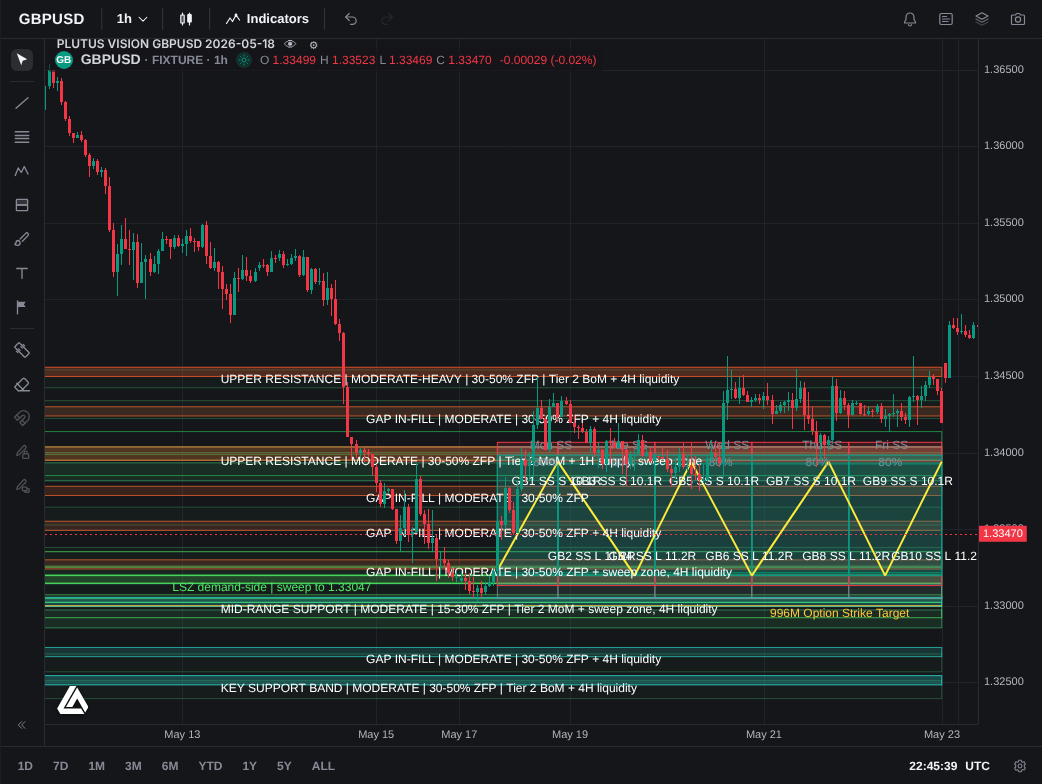
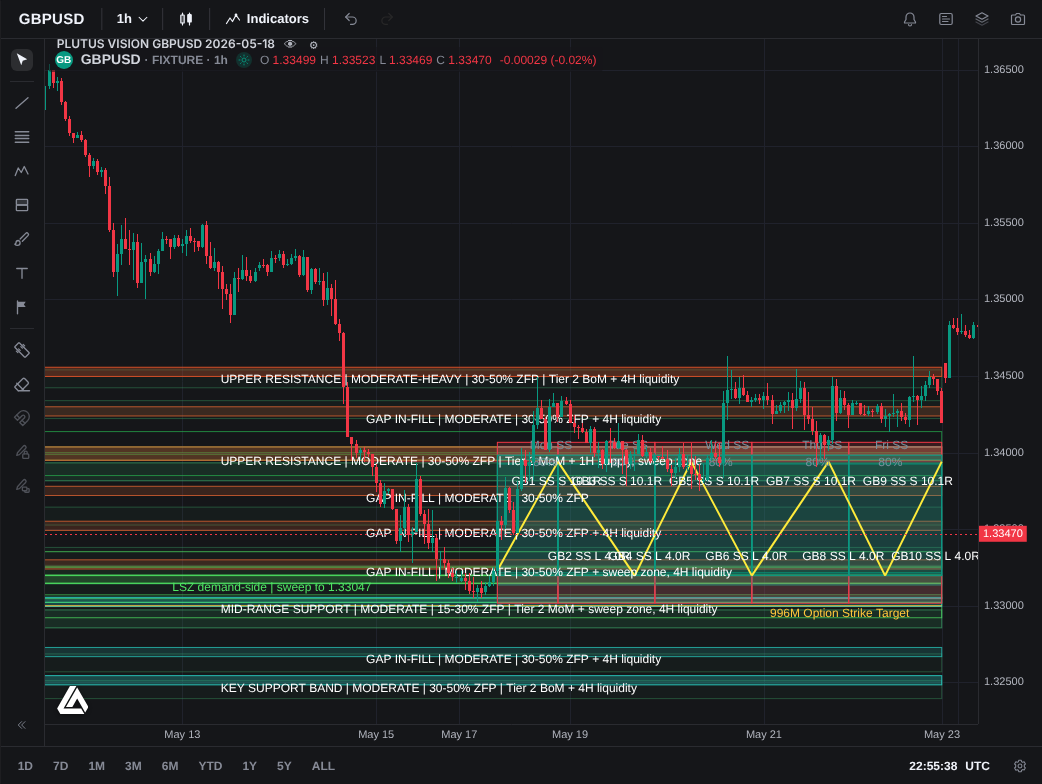
E3: a depleted range bound (3 reactions) is TP only - the swing starts at the liquidity beyond it (D-85; P533:1159, E3C:1052, 6.4.2); final two frames of the s3e render
Claude-Session: https://claude.ai/code/session_01Eis2qBbofvMAifYJzweUMT

Changed region(s): [[0.4607, 0.7041, 0.9213, 0.7959], [0.9213, 0.7041, 0.952, 0.7347]]

diff --git a/e1_tool/e3_trades.py b/e1_tool/e3_trades.py
@@ -200,6 +200,7 @@ def _steps(X):
 
 ZR6B = True
 SWEEP_EXT = True
+DEPLETED_BOUND = True
 
 
 def _mirror_conf(c, a, direction, E2):
@@ -351,7 +352,16 @@ def _cands(E2, monday, X):
                     # 6.4.2: the slow consolidation ends retesting the opposing liquidity FROM the pivot: on the transition day the swing in the breakout direction ends at the pivot (its far side)
                     out.append({'shape': 'SS', 'dir': d, 'from_zone': dict(a), 'to_zone': E2['pivot'], 'from': a['bot'] if d == 'down' else a['top'], 'days': [DAYS[S[tr['s0']]['i']]],
                                 'to': E2['pivot']['bot'] if d == 'down' else E2['pivot']['top'], 't0': S[tr['s0']]['t0'] - 86400000, 't1': S[tr['s0']]['t1'], 'role': 'last-swing'})
-                for anc in sorted(inner, key=lambda q: -q['top'] if d == 'down' else q['bot']) + [a]:      # GS Law 3: the LTF zone first, the HTF bound after (Phase 6.3 keeps the first)
+                bound = [a]
+                if DEPLETED_BOUND and (E2M.info(a) or {}).get('counter') == 'Depleted':
+                    # P533:1159 '3+ reactions (Depleted): Zone is likely to fail on next test. Use for TP targeting only - NOT for entries ... price will likely pierce through it';
+                    # E3C:1052 ZONE_DEPLETED 'reactionCount >= 3 (TP-only)'; 6.4.2 'pierce through zone until reaching BoM Liquidity': the swing from this side starts at the liquidity
+                    # beyond the depleted bound, and no structure standing on the depleted zone is an entry (D-85)
+                    lb = E2M.liquidity_beyond(X, a, d == 'down')
+                    inner = [q for q in inner if not _overlap(q, a)]
+                    bound = [lb] if lb is not None else []
+                    log.append(f"SS {d}: ZONE_DEPLETED - {a.get('name', '')} has 3+ reactions (TP only, P533:1159) -> " + (f"entry at {lb['name']} beyond it (6.4.2)" if lb is not None else 'no liquidity beyond it: no entry on this side'))
+                for anc in sorted(inner, key=lambda q: -q['top'] if d == 'down' else q['bot']) + bound:      # GS Law 3: the LTF zone first, the HTF bound after (Phase 6.3 keeps the first)
                     out.append({'shape': 'SS', 'dir': d, 'from_zone': dict(anc, name=anc.get('name', anc.get('label'))), 'to_zone': t, 'from': anc['bot'] if d == 'down' else anc['top'],
                                 'to': t['top'] if d == 'down' else t['bot'], 'days': dn, 't0': max(S[st['s0']]['t0'], D.boundary_ms(monday)), 't1': S[st['s1'] - 1]['t1'], 'role': st.get('role')})
         elif st['shape'] in ('WL', 'PWL'):

diff --git a/memory/03_DECISION_CHAIN.md b/memory/03_DECISION_CHAIN.md
@@ -86,3 +86,4 @@
 | D-82 | 2026-11-26 | E3: every take-profit ORDER stands 1.5 pips in front of its target level (a level that already carries the 1-pip spread gets the rest); the level stays the Law-27 link and the rocket gate's reference | Fibonacci Spiderwebs (operator): 'Make sure there is a 1.5-2 pip buffer in front of the TP or you will miss it. MANDATORY ... If you skip this you will miss 60% of TPs and lose 50% of earned profits'; E3C:324 'add a 1-2 pip spread so you dont miss the exit'. Golden TPs stay within 2.2 pips of his (DXY all six; EURUSD #2 #4 #5 #6; GBPUSD #1 #2 #3 #5) | exact level / +1 pip on strong zones only |
 | D-83 | 2026-11-26 | E3 first rocket of a breakout that follows a retest: it must stand in the 0.786-1.0 band of the retest leg's Fib grid (0 = the retest extreme, 1 = the swing before it); a 20-pip step already in the band stays with its ladder stop, otherwise the band's first step on the way is the rocket and its stop is the grid's 0.618 level | Fibonacci Spiderwebs + his grids in golden_week.json (EURUSD #7 1.14233 = 0.786, SL 1.14183 ~ 0.618; GBPUSD #4 SL 1.33522 = 0.618; DXY rocket 100.975 = 1.0, SL 101.09 = 0.618); E3C:225 '0.786-1.0 FINAL BLAST'; GS Law 5. EURUSD golden rocket now 1.14239 / 1.14172 / 1.14540 vs his 1.14233 / 1.14183 / 1.14544 (was 6.9 pips off) | first liquidity step 20+ pips beyond the primary (D-54) only |
 | D-84 | 2026-11-26 | E3: a setup anchored on a sweep zone that carries its extension (the range bounds of D-64 / D-79, 'reach' = extreme +- 0.10) has ONE stop rule - 3 pips outside the extended range; shields inside the reach are not a next step; third entry attempt = the exact swing extreme. The locator's zone-failure test uses the extended range too | P533 7.1 Rule 2.5 'If the LSZ has been extended per LSZ Bottom Edge Extension ... use the extended range for SL placement ... price sweeping through the LSZ signals zone failure'; E3C:1027 'LSZ Zones (with bottom edge extension) | Phase 4 | SL ladder-steps model'; P533 0.45a 'Institutions often sweep 0.05-0.10 beyond the visible extreme before reversing'; outside counts 3 + 4 defect 2 'stops sit inside the sweep reach' | stops at a 4H shield / back edge inside the reach (DXY 2026-05-18 short stopped at 99.459 one candle before the 51-pip drop; GBPUSD 2026-10-05 long stopped 2.6 pips under) |
+| D-85 | 2026-11-26 | E3 swing scalps: a range bound that is DEPLETED (3 reactions) is no entry anchor and no structure standing on it is one; the swing from that side starts at the liquidity beyond the bound (e2_chain.liquidity_beyond); none there -> no entry on that side (logged ZONE_DEPLETED). The bound stays Engine 2's range edge and the other side's TP | P533:1159 '3+ reactions (Depleted): Zone is likely to fail on next test. Use for TP targeting only - NOT for entries ... price will likely pierce through it'; E3C:1052 ZONE_DEPLETED 'reactionCount >= 3 (TP-only)'; 6.4.2 'pierce through zone until reaching BoM Liquidity' | entries at structures on the depleted bound (EURUSD 2026-05-18: short 1.16512 stopped twice on Monday, 4 pips under the top; now short 1.16604 at the 4H band beyond, TP Tuesday) |

diff --git a/memory/05_JOURNAL.md b/memory/05_JOURNAL.md
@@ -588,3 +588,5 @@ NOT BUILT YET: e1_report.py (the report's audit sections), Step 0d/0e D1 order b
 - D-83 first rocket in the 0.786-1.0 band of the retest-leg Fib grid (EURUSD golden #7 now within 0.6 / 1.1 / 0.4 pips; DXY rocket unchanged). Tried: band step nearest level 1.0 with the 0.618 stop - his own DXY rocket (100.975 / 101.09 / 100.68) has RRR 2.57, so a 3.0 floor on that stop rejects it; kept the ladder stop where the 20-pip step is already in the band. GBPUSD #4 (Wed 1.33629) still not on the map: my forecast grid there is 18 pips short at level 1 (E2 pivot vs the actual pre-drop high 1.33703). Locator 29 TP fills / 23 stops.
 - D-84 sweep-zone stops on the EXTENDED range (P533 7.1 Rule 2.5; E3C:1027). Golden three pairs unchanged (their sweep anchors are WL / RWL anchors without an extension). Locator 16 maps: 29 TP / 23 stops -> 31 / 20 (DXY May 18 short now 99.409 / 99.539, TP Wed; GBPUSD Oct 5 long 1.31924 / 1.31769, TP Mon + Thu). Frames s3e re-rendered on this commit for the fifth outside count.
   READ AND NOT BUILT (open canon row): E3C 8.14 rule 6 'BoM/MoM ENFORCEMENT (no entry at MoM unless ALL 4 exceptions)' + E3C:1053 VIRGIN_MOM_DEATH_ZONE 'virgin MoM (0 reactions) on counter-trend' (P533:2218 'MoM (virgin) | ENTRY-REJECT'). Only the reversal / HTF-swing gate exists (MOM_REVERSAL). Measured on the 16 maps: setups on virgin 1H MoM zones = 6 TP / 6 stops; with 'counter-trend = against the E2 storyline' the rule would delete GBPUSD golden #2 (his own Monday short stands on what my E1 calls a virgin 1H MoM supply) and keep five of the six losers -> my BoM / MoM class of 1H zones or the reading of 'counter-trend' is the thing to check next, not a blind gate.
+- D-85 depleted bound = TP only, entry at the liquidity beyond it (P533:1159, E3C:1052, 6.4.2). Golden unchanged; locator 32 TP / 18 stops (was 31 / 20). Fifth outside count launched on frames evidence/s3e = code 3b5b52c (D-84 in, D-85 NOT in).
+  SLIP: I committed the frames while the last map (GBPUSD 05-18) was still rendering - commit 89fc515 carried two frames of the previous render; the working tree got the right ones 10 s before the next engine edit and they are committed with D-85. Rule: `pgrep -f tools/s3frames` must be empty before frames are committed or a reviewer is started.
